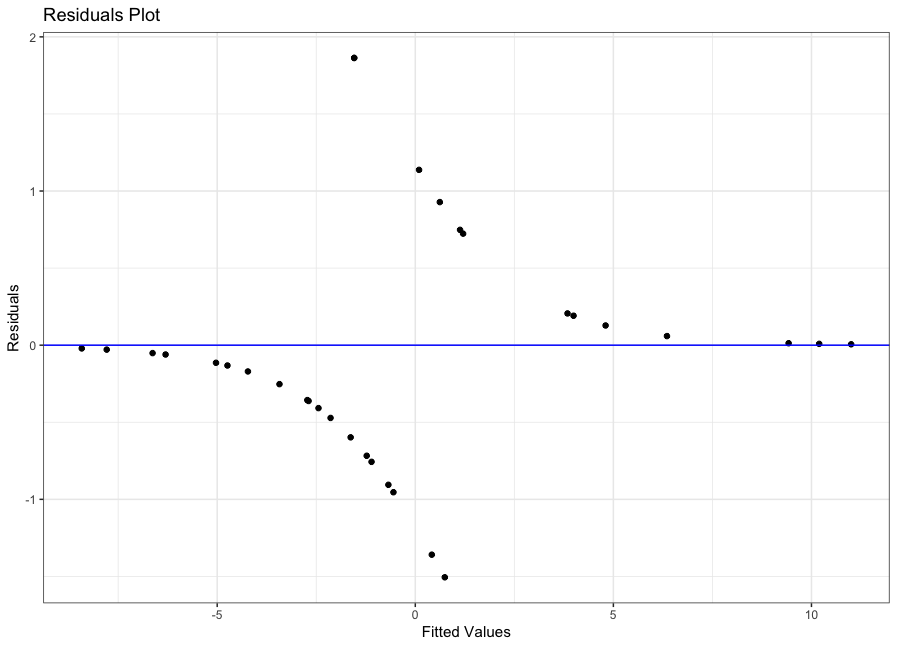
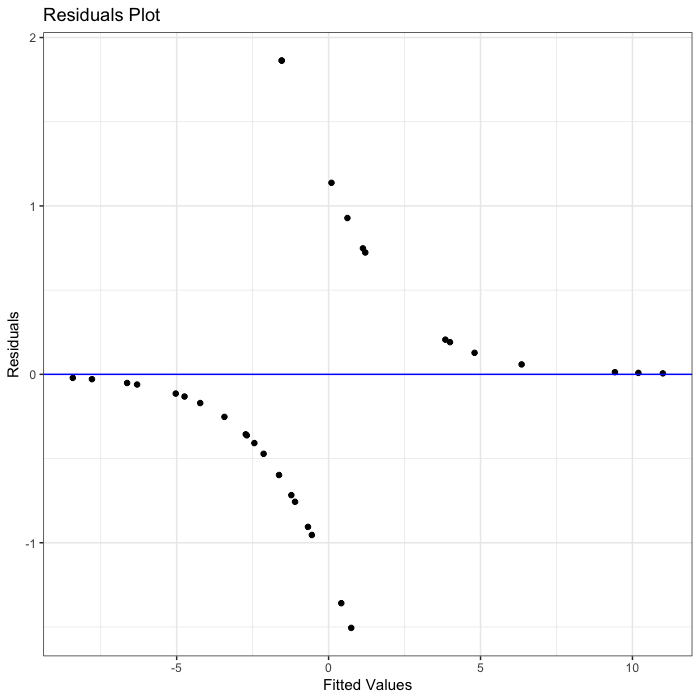
Always refresh model section

diff --git a/README.md b/README.md
@@ -16,7 +16,7 @@ All documentation below is automatically generated with this repository.
 # Models
 ## MPG Model with mtcars
 ### Summary
-<div id="sgnesmvmbn" style="padding-left:0px;padding-right:0px;padding-top:10px;padding-bottom:10px;overflow-x:auto;overflow-y:auto;width:auto;height:auto;">
+<div id="klopicuzzl" style="padding-left:0px;padding-right:0px;padding-top:10px;padding-bottom:10px;overflow-x:auto;overflow-y:auto;width:auto;height:auto;">
   
   <table class="gt_table" data-quarto-disable-processing="false" data-quarto-bootstrap="false" style="-webkit-font-smoothing: antialiased; -moz-osx-font-smoothing: grayscale; font-family: system-ui, 'Segoe UI', Roboto, Helvetica, Arial, sans-serif, 'Apple Color Emoji', 'Segoe UI Emoji', 'Segoe UI Symbol', 'Noto Color Emoji'; display: table; border-collapse: collapse; line-height: normal; margin-left: auto; margin-right: auto; color: #333333; font-size: 16px; font-weight: normal; font-style: normal; background-color: #FFFFFF; width: auto; border-top-style: solid; border-top-width: 2px; border-top-color: #A8A8A8; border-right-style: none; border-right-width: 2px; border-right-color: #D3D3D3; border-bottom-style: solid; border-bottom-width: 2px; border-bottom-color: #A8A8A8; border-left-style: none; border-left-width: 2px; border-left-color: #D3D3D3;" bgcolor="#FFFFFF">
   <thead style="border-style: none;">
@@ -70,7 +70,7 @@ All documentation below is automatically generated with this repository.
 </div>
 
 ### Components
-<div id="eksdldrrub" style="padding-left:0px;padding-right:0px;padding-top:10px;padding-bottom:10px;overflow-x:auto;overflow-y:auto;width:auto;height:auto;">
+<div id="ahmsuljzmz" style="padding-left:0px;padding-right:0px;padding-top:10px;padding-bottom:10px;overflow-x:auto;overflow-y:auto;width:auto;height:auto;">
   
   <table class="gt_table" data-quarto-disable-processing="false" data-quarto-bootstrap="false" style="-webkit-font-smoothing: antialiased; -moz-osx-font-smoothing: grayscale; font-family: system-ui, 'Segoe UI', Roboto, Helvetica, Arial, sans-serif, 'Apple Color Emoji', 'Segoe UI Emoji', 'Segoe UI Symbol', 'Noto Color Emoji'; display: table; border-collapse: collapse; line-height: normal; margin-left: auto; margin-right: auto; color: #333333; font-size: 16px; font-weight: normal; font-style: normal; background-color: #FFFFFF; width: auto; border-top-style: solid; border-top-width: 2px; border-top-color: #A8A8A8; border-right-style: none; border-right-width: 2px; border-right-color: #D3D3D3; border-bottom-style: solid; border-bottom-width: 2px; border-bottom-color: #A8A8A8; border-left-style: none; border-left-width: 2px; border-left-color: #D3D3D3;" bgcolor="#FFFFFF">
   <thead style="border-style: none;">
@@ -125,11 +125,11 @@ All documentation below is automatically generated with this repository.
 </div>
 
 ### Residuals
-![](model_readme/img/readme-residuals-plot-81f48c17bd3f26727a7a32bf61d9ecd0.png)
+![](model_readme/img/readme-residuals-plot-012d32ff2f6067db34ba0041da531973.png)
 
 ## Logit AM Model
 ### Summary
-<div id="jgpvyyjjiw" style="padding-left:0px;padding-right:0px;padding-top:10px;padding-bottom:10px;overflow-x:auto;overflow-y:auto;width:auto;height:auto;">
+<div id="xhtxphnbye" style="padding-left:0px;padding-right:0px;padding-top:10px;padding-bottom:10px;overflow-x:auto;overflow-y:auto;width:auto;height:auto;">
   
   <table class="gt_table" data-quarto-disable-processing="false" data-quarto-bootstrap="false" style="-webkit-font-smoothing: antialiased; -moz-osx-font-smoothing: grayscale; font-family: system-ui, 'Segoe UI', Roboto, Helvetica, Arial, sans-serif, 'Apple Color Emoji', 'Segoe UI Emoji', 'Segoe UI Symbol', 'Noto Color Emoji'; display: table; border-collapse: collapse; line-height: normal; margin-left: auto; margin-right: auto; color: #333333; font-size: 16px; font-weight: normal; font-style: normal; background-color: #FFFFFF; width: auto; border-top-style: solid; border-top-width: 2px; border-top-color: #A8A8A8; border-right-style: none; border-right-width: 2px; border-right-color: #D3D3D3; border-bottom-style: solid; border-bottom-width: 2px; border-bottom-color: #A8A8A8; border-left-style: none; border-left-width: 2px; border-left-color: #D3D3D3;" bgcolor="#FFFFFF">
   
@@ -157,7 +157,7 @@ All documentation below is automatically generated with this repository.
 </div>
 
 ### Components
-<div id="dmkcqhrvnm" style="padding-left:0px;padding-right:0px;padding-top:10px;padding-bottom:10px;overflow-x:auto;overflow-y:auto;width:auto;height:auto;">
+<div id="kvpdcobmsy" style="padding-left:0px;padding-right:0px;padding-top:10px;padding-bottom:10px;overflow-x:auto;overflow-y:auto;width:auto;height:auto;">
   
   <table class="gt_table" data-quarto-disable-processing="false" data-quarto-bootstrap="false" style="-webkit-font-smoothing: antialiased; -moz-osx-font-smoothing: grayscale; font-family: system-ui, 'Segoe UI', Roboto, Helvetica, Arial, sans-serif, 'Apple Color Emoji', 'Segoe UI Emoji', 'Segoe UI Symbol', 'Noto Color Emoji'; display: table; border-collapse: collapse; line-height: normal; margin-left: auto; margin-right: auto; color: #333333; font-size: 16px; font-weight: normal; font-style: normal; background-color: #FFFFFF; width: auto; border-top-style: solid; border-top-width: 2px; border-top-color: #A8A8A8; border-right-style: none; border-right-width: 2px; border-right-color: #D3D3D3; border-bottom-style: solid; border-bottom-width: 2px; border-bottom-color: #A8A8A8; border-left-style: none; border-left-width: 2px; border-left-color: #D3D3D3;" bgcolor="#FFFFFF">
   <thead style="border-style: none;">
@@ -192,11 +192,11 @@ All documentation below is automatically generated with this repository.
 </div>
 
 ### Residuals
-![](model_readme/img/readme-residuals-plot-44a238ba48072cfcac90eb3ad72d4167.png)
+![](model_readme/img/readme-residuals-plot-bd53c896d6b2a0f6ce3290aeb1d5e3c1.png)
 
 ## AQ Model
 ### Summary
-<div id="ypsxxpjjjq" style="padding-left:0px;padding-right:0px;padding-top:10px;padding-bottom:10px;overflow-x:auto;overflow-y:auto;width:auto;height:auto;">
+<div id="uzidoohcew" style="padding-left:0px;padding-right:0px;padding-top:10px;padding-bottom:10px;overflow-x:auto;overflow-y:auto;width:auto;height:auto;">
   
   <table class="gt_table" data-quarto-disable-processing="false" data-quarto-bootstrap="false" style="-webkit-font-smoothing: antialiased; -moz-osx-font-smoothing: grayscale; font-family: system-ui, 'Segoe UI', Roboto, Helvetica, Arial, sans-serif, 'Apple Color Emoji', 'Segoe UI Emoji', 'Segoe UI Symbol', 'Noto Color Emoji'; display: table; border-collapse: collapse; line-height: normal; margin-left: auto; margin-right: auto; color: #333333; font-size: 16px; font-weight: normal; font-style: normal; background-color: #FFFFFF; width: auto; border-top-style: solid; border-top-width: 2px; border-top-color: #A8A8A8; border-right-style: none; border-right-width: 2px; border-right-color: #D3D3D3; border-bottom-style: solid; border-bottom-width: 2px; border-bottom-color: #A8A8A8; border-left-style: none; border-left-width: 2px; border-left-color: #D3D3D3;" bgcolor="#FFFFFF">
   
@@ -232,7 +232,7 @@ All documentation below is automatically generated with this repository.
 </div>
 
 ### Components
-<div id="qwsezrxmvd" style="padding-left:0px;padding-right:0px;padding-top:10px;padding-bottom:10px;overflow-x:auto;overflow-y:auto;width:auto;height:auto;">
+<div id="qyeqnkzaea" style="padding-left:0px;padding-right:0px;padding-top:10px;padding-bottom:10px;overflow-x:auto;overflow-y:auto;width:auto;height:auto;">
   
   <table class="gt_table" data-quarto-disable-processing="false" data-quarto-bootstrap="false" style="-webkit-font-smoothing: antialiased; -moz-osx-font-smoothing: grayscale; font-family: system-ui, 'Segoe UI', Roboto, Helvetica, Arial, sans-serif, 'Apple Color Emoji', 'Segoe UI Emoji', 'Segoe UI Symbol', 'Noto Color Emoji'; display: table; border-collapse: collapse; line-height: normal; margin-left: auto; margin-right: auto; color: #333333; font-size: 16px; font-weight: normal; font-style: normal; background-color: #FFFFFF; width: auto; border-top-style: solid; border-top-width: 2px; border-top-color: #A8A8A8; border-right-style: none; border-right-width: 2px; border-right-color: #D3D3D3; border-bottom-style: solid; border-bottom-width: 2px; border-bottom-color: #A8A8A8; border-left-style: none; border-left-width: 2px; border-left-color: #D3D3D3;" bgcolor="#FFFFFF">
   <thead style="border-style: none;">
@@ -267,5 +267,5 @@ All documentation below is automatically generated with this repository.
 </div>
 
 ### Residuals
-![](model_readme/img/readme-residuals-plot-aa13783c5710cd08a21db68e6bd60162.png)
+![](model_readme/img/readme-residuals-plot-c3073393188cc074d005256314776e5c.png)
 
